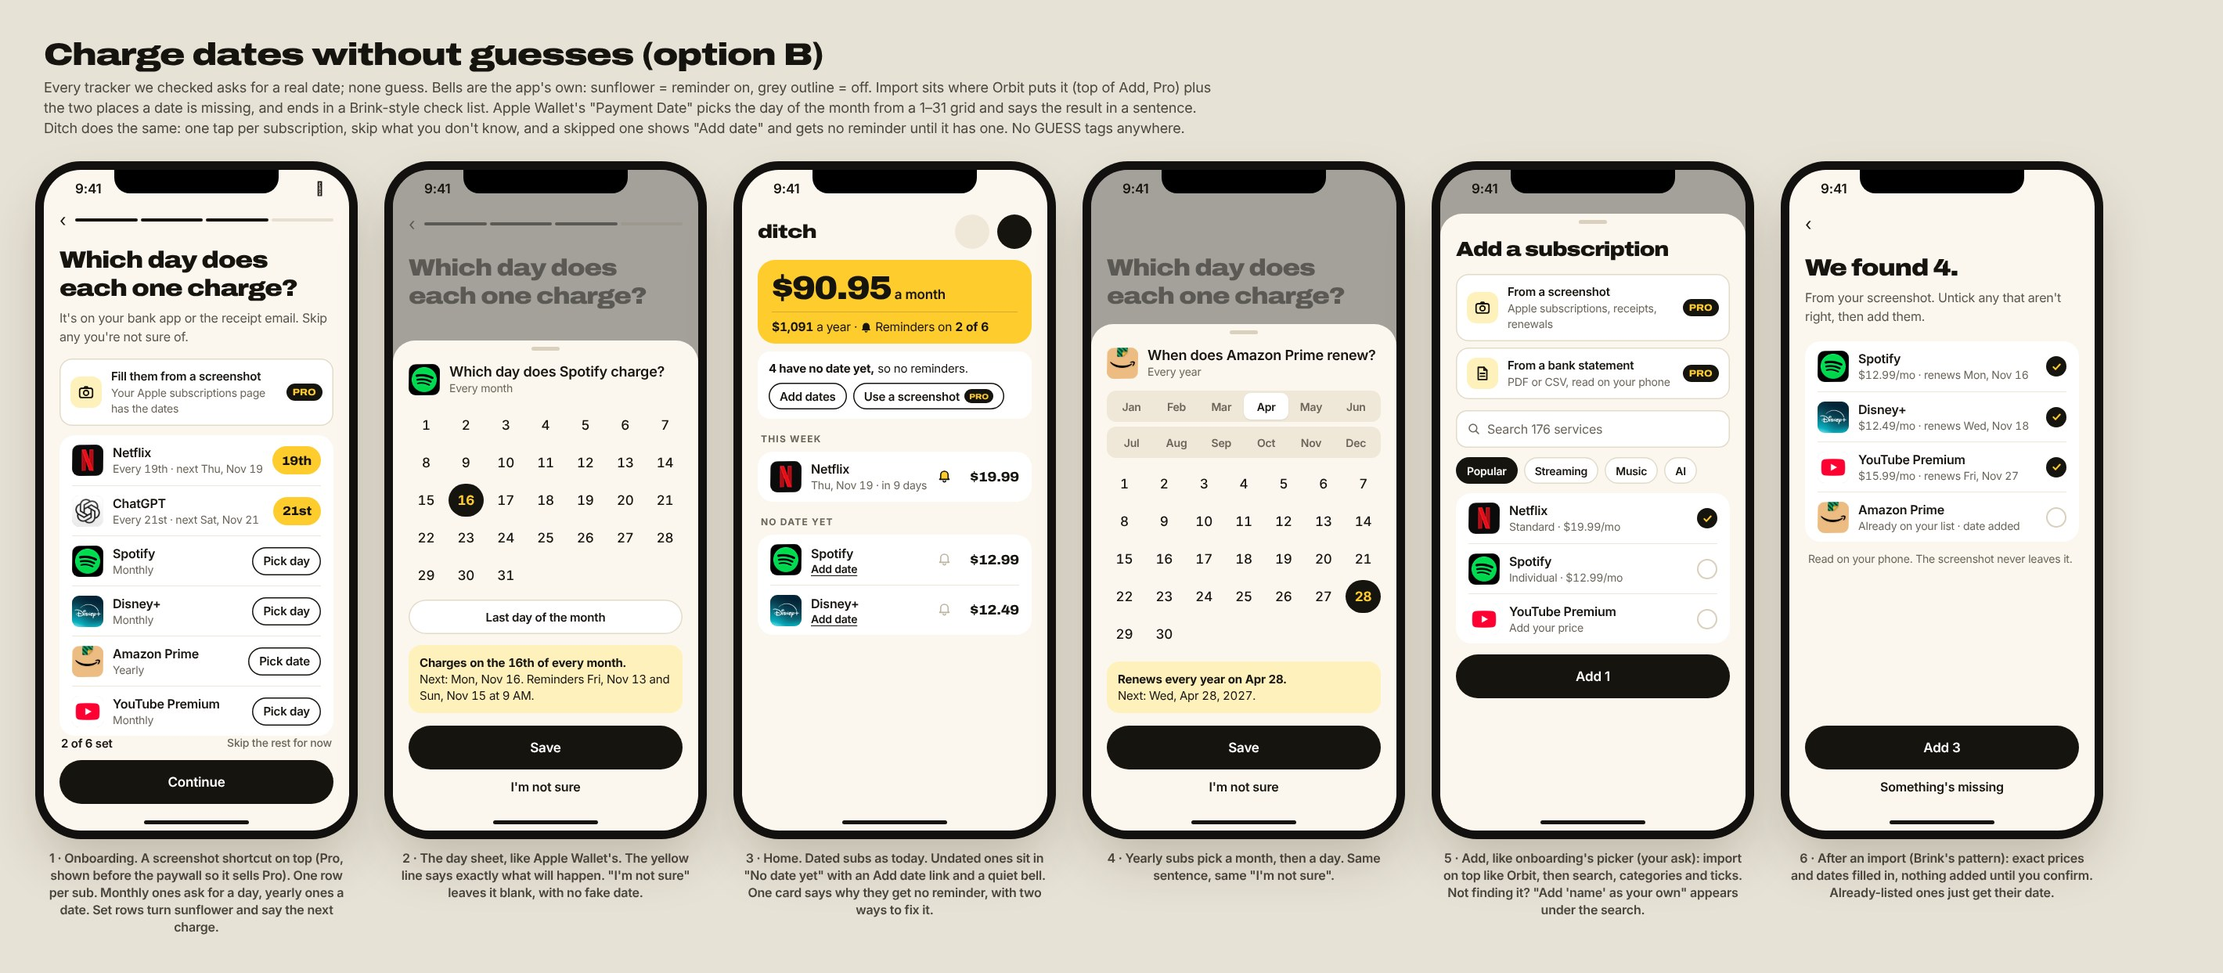
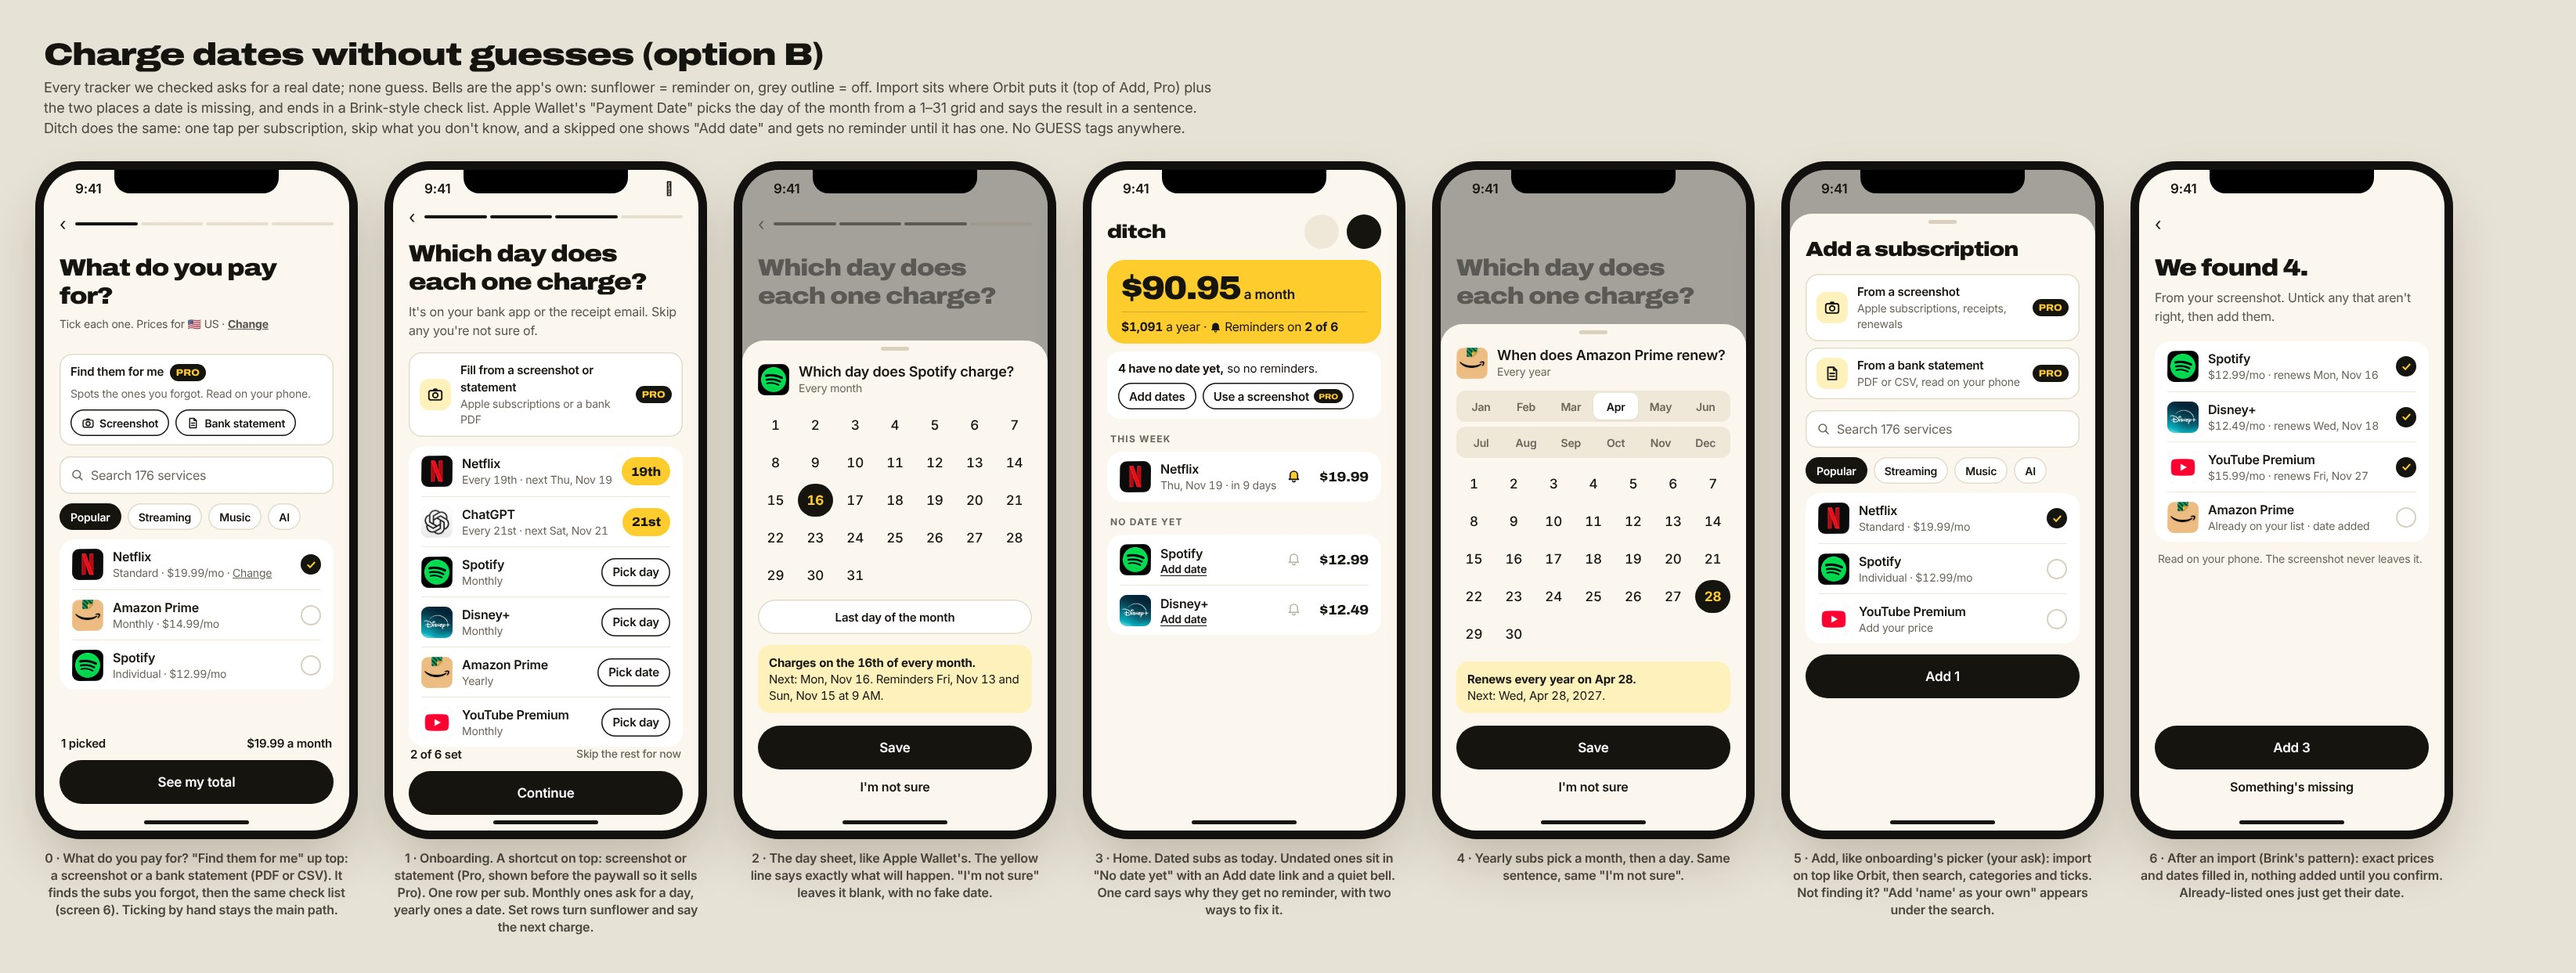
Dates mockup: statement import in onboarding (Find them for me) and on the dates step
Claude-Session: https://claude.ai/code/session_01Q8GFjWCZXwnj2nAcxjTkxh

diff --git a/design/v13-dates/dates.html b/design/v13-dates/dates.html
@@ -10,7 +10,7 @@
 :root{--sun:#FFCC2E;--ink:#16140F;--cream:#FBF7EE;--fg2:#5A544A;--mute:#6B6559;--hair:#EEE7D8;--rule:#E6DFD0;--chipb:#E3DBCA;--tint:#FFF1BC}
 *{box-sizing:border-box}
 body{margin:0;background:#E7E2D6;font-family:Inter,system-ui,sans-serif;color:var(--ink);letter-spacing:-.2px;-webkit-font-smoothing:antialiased}
-.stage{width:2840px;padding:48px 56px}
+.stage{width:3290px;padding:48px 56px}
 h1{font-family:Archivo;font-stretch:125%;font-weight:900;font-size:40px;letter-spacing:-1.2px;margin:0 0 8px}
 .intro{font-size:18px;line-height:26px;color:#4A463E;margin:0 0 40px;max-width:1500px}
 .row{display:flex;gap:56px;align-items:flex-start}
@@ -76,13 +76,31 @@ h1{font-family:Archivo;font-stretch:125%;font-weight:900;font-size:40px;letter-s
 <p class="intro">Every tracker we checked asks for a real date; none guess. Bells are the app's own: sunflower = reminder on, grey outline = off. Import sits where Orbit puts it (top of Add, Pro) plus the two places a date is missing, and ends in a Brink-style check list. Apple Wallet's "Payment Date" picks the day of the month from a 1–31 grid and says the result in a sentence. Ditch does the same: one tap per subscription, skip what you don't know, and a skipped one shows "Add date" and gets no reminder until it has one. No GUESS tags anywhere.</p>
 <div class="row">
 
+<!-- 0 · pick step with find-for-me -->
+<div class="cell"><div class="phone"><div class="notch"></div><div class="sb"><span>9:41</span><span></span></div>
+<div class="scr">
+  <div class="nav"><span style="font-size:22px">‹</span><div class="steps"><i class="on"></i><i></i><i></i><i></i></div></div>
+  <h2 class="title">What do you pay for?</h2>
+  <p class="sub" style="margin-top:8px;color:#5A544A">Tick each one. Prices for 🇺🇸 US · <u><b>Change</b></u></p>
+  <div class="imp" style="margin-top:14px"><div style="display:flex;flex-direction:column;gap:6px;flex:1"><div class="nm" style="font-size:15px">Find them for me <span class="pro" style="margin-left:4px">PRO</span></div><div class="sub">Spots the ones you forgot. Read on your phone.</div><div style="display:flex;gap:8px;margin-top:4px"><span class="pick" style="height:34px;gap:6px;font-size:14px"><svg width="17" height="17" viewBox="0 0 24 24" fill="none"><rect x="3" y="6.5" width="18" height="13" rx="3" stroke="#16140F" stroke-width="2"/><circle cx="12" cy="13" r="3.5" stroke="#16140F" stroke-width="2"/><path d="M9 6.5l1.2-2h3.6l1.2 2" stroke="#16140F" stroke-width="2" stroke-linejoin="round"/></svg> Screenshot</span><span class="pick" style="height:34px;gap:6px;font-size:14px"><svg width="17" height="17" viewBox="0 0 24 24" fill="none"><path d="M6 3.5h8l4 4v13H6z" stroke="#16140F" stroke-width="2" stroke-linejoin="round"/><path d="M14 3.5v4h4M9 12h6M9 16h6" stroke="#16140F" stroke-width="2" stroke-linecap="round"/></svg> Bank statement</span></div></div></div>
+  <div class="srch"><svg width="18" height="18" viewBox="0 0 24 24" fill="none" style="margin-right:8px"><circle cx="10.5" cy="10.5" r="6.5" stroke="#6B6559" stroke-width="2"/><path d="M15.5 15.5L20 20" stroke="#6B6559" stroke-width="2" stroke-linecap="round"/></svg>Search 176 services</div>
+  <div class="chips"><span class="on">Popular</span><span>Streaming</span><span>Music</span><span>AI</span></div>
+  <div class="card" style="margin-top:12px">
+    <div class="r"><div class="lt"><img src="../../assets/logos/netflix.png"></div><div style="flex:1"><div class="nm">Netflix</div><div class="sub num">Standard · $19.99/mo · <u>Change</u></div></div><span style="width:26px;height:26px;border-radius:13px;background:#16140F;display:flex;align-items:center;justify-content:center;flex:none"><svg width="13" height="13" viewBox="0 0 14 14"><path d="M2.5 7.4l3 3 6-6.6" stroke="#FFCC2E" stroke-width="2.2" fill="none" stroke-linecap="round" stroke-linejoin="round"/></svg></span></div>
+    <div class="r"><div class="lt"><img src="../../assets/logos/amazon-prime.png"></div><div style="flex:1"><div class="nm">Amazon Prime</div><div class="sub num">Monthly · $14.99/mo</div></div><span style="width:26px;height:26px;border-radius:13px;box-shadow:inset 0 0 0 2px #D9D0BD"></span></div>
+    <div class="r"><div class="lt"><img src="../../assets/logos/spotify.png"></div><div style="flex:1"><div class="nm">Spotify</div><div class="sub num">Individual · $12.99/mo</div></div><span style="width:26px;height:26px;border-radius:13px;box-shadow:inset 0 0 0 2px #D9D0BD"></span></div>
+  </div>
+  <div class="foot"><div class="bar num"><span>1 picked</span><span>$19.99 a month</span></div><div class="cta">See my total</div></div>
+</div><div class="hi"></div></div>
+<div class="cap">0 · What do you pay for? "Find them for me" up top: a screenshot or a bank statement (PDF or CSV). It finds the subs you forgot, then the same check list (screen 6). Ticking by hand stays the main path.</div></div>
+
 <!-- 1 · onboarding dates step -->
 <div class="cell"><div class="phone"><div class="notch"></div><div class="sb"><span>9:41</span><span></span></div>
 <div class="scr">
   <div class="nav"><span style="font-size:22px">‹</span><div class="steps"><i class="on"></i><i class="on"></i><i class="on"></i><i></i></div></div>
   <h2 class="title">Which day does each one charge?</h2>
   <p class="leadS">It's on your bank app or the receipt email. Skip any you're not sure of.</p>
-  <div class="imp"><div class="ic"><svg width="22" height="22" viewBox="0 0 24 24" fill="none"><rect x="3" y="6.5" width="18" height="13" rx="3" stroke="#16140F" stroke-width="2"/><circle cx="12" cy="13" r="3.5" stroke="#16140F" stroke-width="2"/><path d="M9 6.5l1.2-2h3.6l1.2 2" stroke="#16140F" stroke-width="2" stroke-linejoin="round"/></svg></div><div style="flex:1"><div class="nm" style="font-size:15px">Fill them from a screenshot</div><div class="sub">Your Apple subscriptions page has the dates</div></div><span class="pro">PRO</span></div>
+  <div class="imp"><div class="ic"><svg width="22" height="22" viewBox="0 0 24 24" fill="none"><rect x="3" y="6.5" width="18" height="13" rx="3" stroke="#16140F" stroke-width="2"/><circle cx="12" cy="13" r="3.5" stroke="#16140F" stroke-width="2"/><path d="M9 6.5l1.2-2h3.6l1.2 2" stroke="#16140F" stroke-width="2" stroke-linejoin="round"/></svg></div><div style="flex:1"><div class="nm" style="font-size:15px">Fill from a screenshot or statement</div><div class="sub">Apple subscriptions or a bank PDF</div></div><span class="pro">PRO</span></div>
   <div class="card" style="margin-top:12px">
     <div class="r"><div class="lt"><img src="../../assets/logos/netflix.png"></div><div style="flex:1"><div class="nm">Netflix</div><div class="sub num">Every 19th · next Thu, Nov 19</div></div><div class="day">19th</div></div>
     <div class="r"><div class="lt"><img src="../../assets/logos/chatgpt-plus.png"></div><div style="flex:1"><div class="nm">ChatGPT</div><div class="sub num">Every 21st · next Sat, Nov 21</div></div><div class="day">21st</div></div>
@@ -96,7 +114,7 @@ h1{font-family:Archivo;font-stretch:125%;font-weight:900;font-size:40px;letter-s
     <div class="cta">Continue</div>
   </div>
 </div><div class="hi"></div></div>
-<div class="cap">1 · Onboarding. A screenshot shortcut on top (Pro, shown before the paywall so it sells Pro). One row per sub. Monthly ones ask for a day, yearly ones a date. Set rows turn sunflower and say the next charge.</div></div>
+<div class="cap">1 · Onboarding. A shortcut on top: screenshot or statement (Pro, shown before the paywall so it sells Pro). One row per sub. Monthly ones ask for a day, yearly ones a date. Set rows turn sunflower and say the next charge.</div></div>
 
 <!-- 2 · day sheet -->
 <div class="cell"><div class="phone"><div class="notch"></div><div class="sb"><span>9:41</span><span></span></div>

diff --git a/docs/research/charge-dates.md b/docs/research/charge-dates.md
@@ -35,7 +35,8 @@ The owner picked **option B** (ask the day of the month, no guesses) after recor
 - **Bells:** Orbit and Rocket Money show only "Renews in 4 days · 28 Nov" on each row, with no per-row reminder status. Ditch keeps its own drawn bell (sunflower fill = reminder on, grey outline = off) because the free 3 make reminder status matter on every row. Emoji are never used for icons.
 - **Where import goes** (Orbit puts "Import from photos" and "Import a file" at the top of Add, locked for Pro: [Mobbin](https://mobbin.com/screens/5702f396-80eb-4f99-845a-7f64a28d4962); Brink ends a screenshot import with "We found 13. Uncheck any that aren't right": [Mobbin](https://mobbin.com/screens/d26c1251-848d-4740-8b39-ac056cd08eda); Rocket Money's add menu has "Track a free trial": [Mobbin](https://mobbin.com/screens/acd7fd86-d95d-44c0-80d2-1011c75a602f)):
   1. **Top of Add** (screen 5): "From a screenshot" and "From a bank statement", both Pro.
-  2. **Onboarding dates step** (screen 1): "Fill them from a screenshot" (Pro), shown before the paywall so it sells Pro.
+  2. **Onboarding "What do you pay for?"** (screen 0): "Find them for me" with **Screenshot** and **Bank statement** (Pro). A statement (PDF or CSV) finds the subs people forgot, which is the strongest "see everything you pay for" moment; it ends in the same check list. Ticking by hand stays the main path.
+  2b. **Onboarding dates step** (screen 1): "Fill from a screenshot or statement" (Pro), shown before the paywall so it sells Pro.
   3. **Home "No date yet" card** (screen 3): "Add dates" or "Use a screenshot" (Pro).
   4. **The result** (screen 6): "We found 4." Exact prices and dates filled in; nothing is added until the user confirms; already-listed subs just get their date.
 - Import needs the EAS development build (on-phone text reading). Until it ships, the Pro rows open the paywall in Expo Go.
